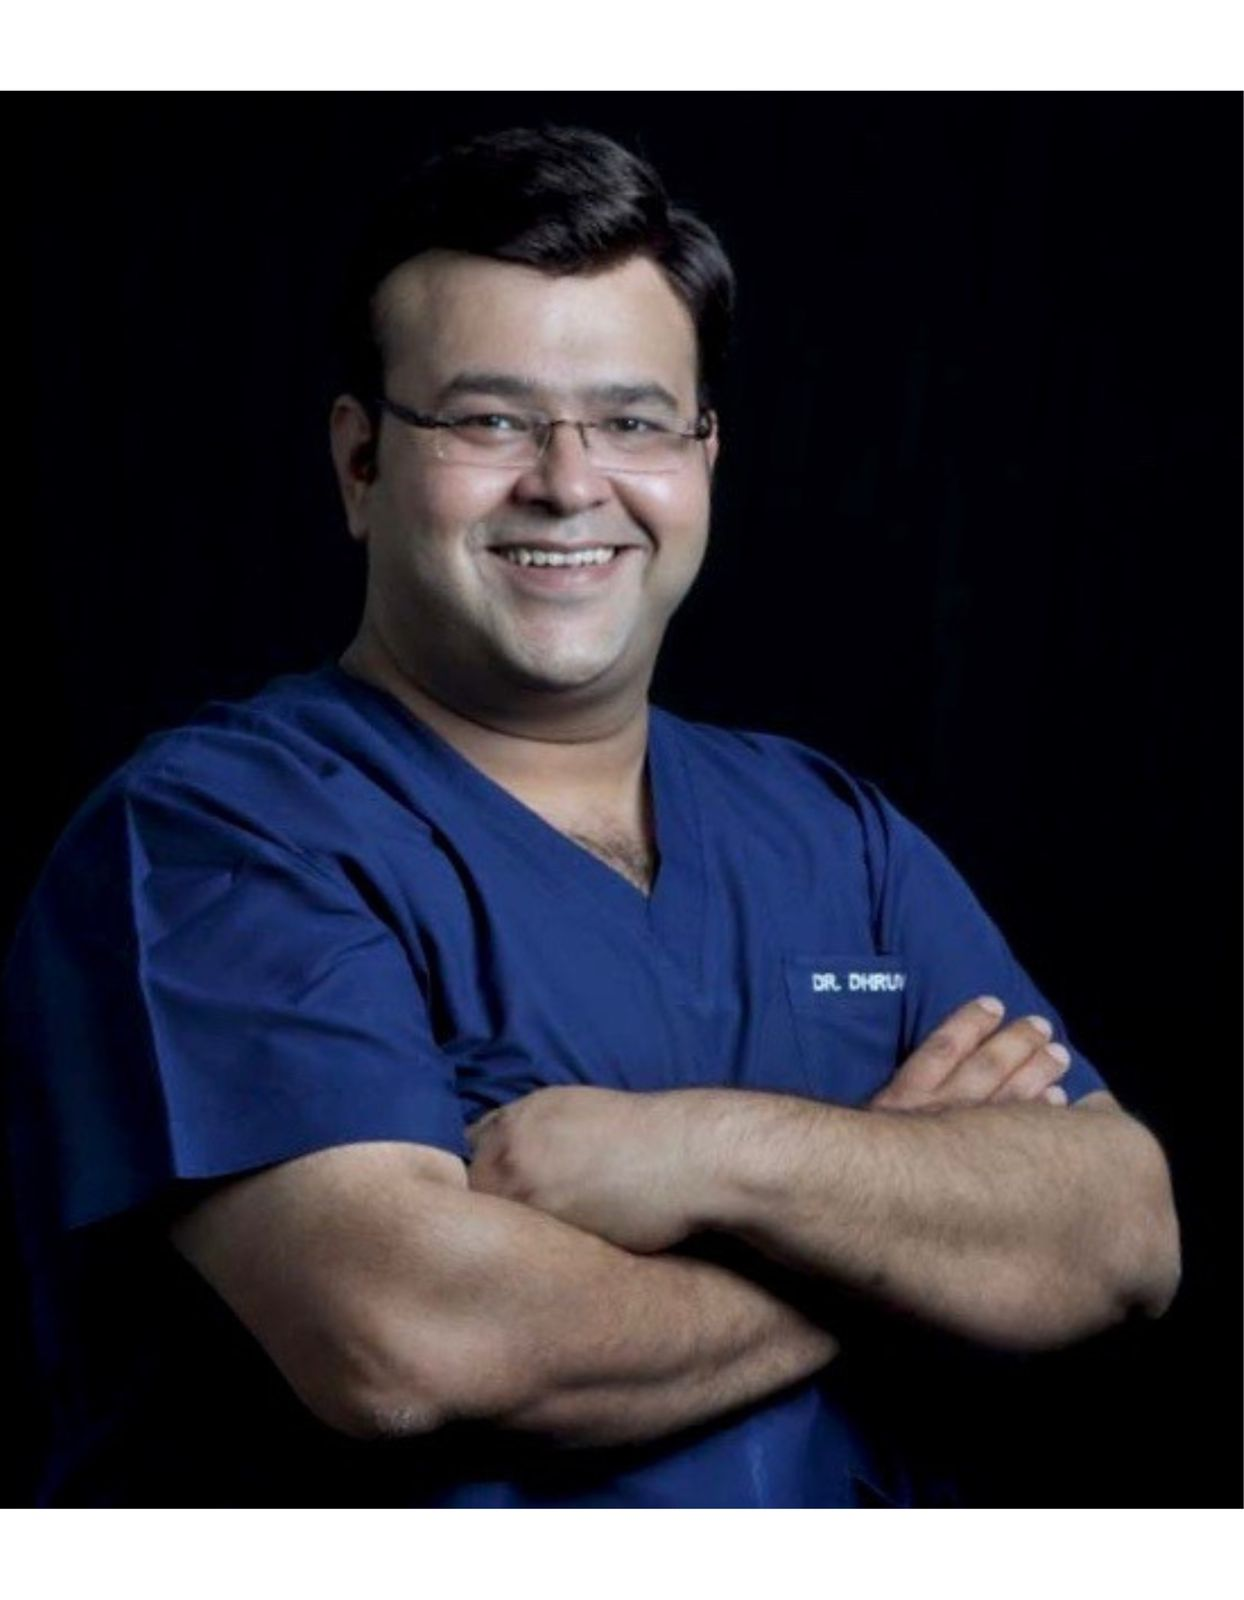
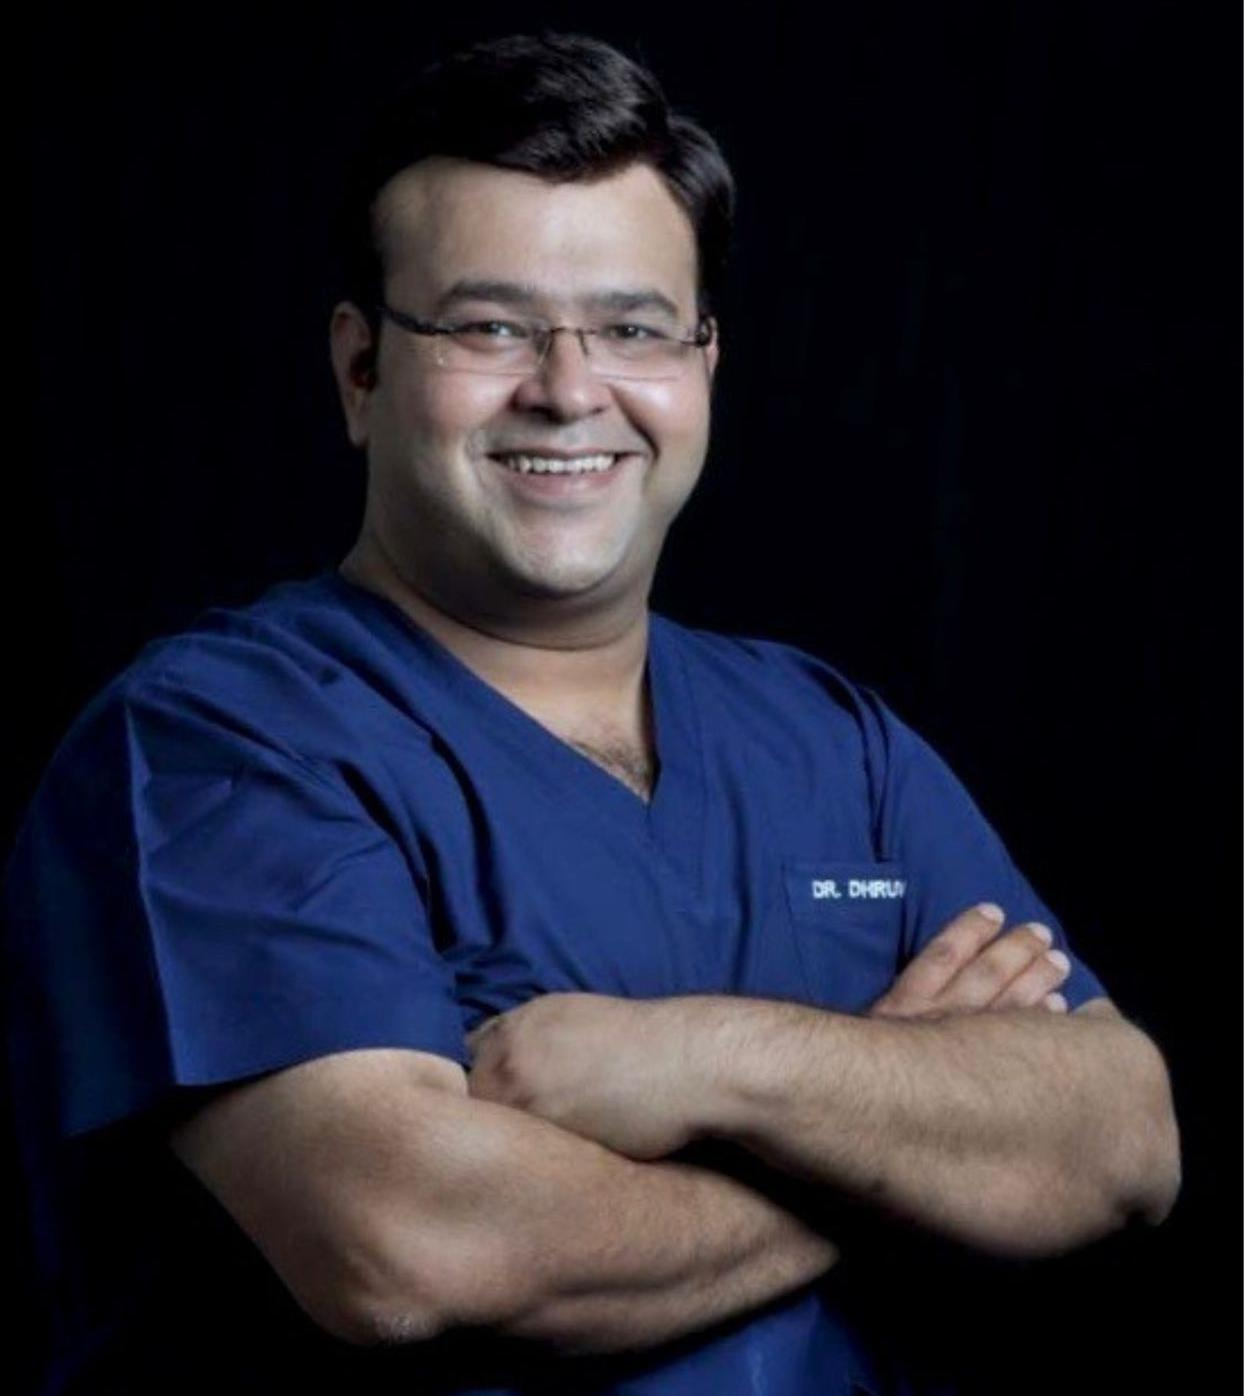
Added new feature

diff --git a/src/components/icore/Sections.tsx b/src/components/icore/Sections.tsx
@@ -185,7 +185,7 @@ export function Principles() {
 /* ---------------- ROI / WHAT YOU GET ---------------- */
 export function WhatYouGet() {
   const items = [
-    { t: "NDC  Certificate", d: "recognized continuing education credits." },
+    { t: "CDE  Certificate", d: "recognized continuing education credits." },
     { t: "Digital Asset Pack", d: "Surgical videos, CBCT scans, prosthetic libraries — yours forever." },
     { t: "Clinical Hands-on Log", d: "Place 5–20 implants under direct mentor supervision." },
     { t: "Indexed Publication", d: "Co-author opportunity on peer-reviewed indexed journals." },
@@ -393,7 +393,7 @@ export function Faculty() {
     {
       title: "Key Note Speakers",
       members: [
-        { n: "Dr. Rajesh Bansal", r: "SENIOR PROF. PROSTHODONTICS , BHU", y: "Senior Implantologist  & Professor, Prosthodontics, Faculty of Dental Sciences, IMS, BHU", image: img("Rajesh Bansal.jpeg") },
+        { n: "Dr. Rajesh Bansal", r: "SENIOR PROF. PROSTHODONTICS , BHU", y: "Senior Implantologist  & Professor, Prosthodontics, Faculty of Dental Sciences, IMS, BHU", image: img("Dr. Rajesh Bansal.jpeg") },
         { n: "Dr. Rajesh Sharma", r: "HOD PEDODONTIST , JDC", y: "Mentor for both Two Piece & Single Piece Implantology, 35 + Publications , Done 1000 + Full Rehabilitation.", image: img("rajesh-sharma.jpeg") },
         { n: "Dr. Johnson Raja James", r: "BDS · MDS · MS(ITALY) · PhD · DIPLOMATEICOI", y: "Implant surgeon & international mentor with 23 years experience in FMR, Pterygoid, & Zygomatic implantology Peri-implant regeneration expert", image: img("Dr. Johnson Raja James.jpeg") },
         { n: "Dr. Dhruv Arora", r: "BDS , MDS Prosthodontics GDC Pondicherry", y: "Internationally acclaimed Prosthodontist & Implant Surgeon with expertise in advanced implantology, full mouth rehabilitation, and peri-implant regeneration. Trained 2500+ dentists globally in implant dentistry.", image: img("Dr. Dhruv Arora.jpeg") },
@@ -425,7 +425,7 @@ export function Faculty() {
         { n: "Dr. Ashish Shrivastava", y: "Senior Dental Surgeon · 35 yrs of clinical experience", image: img("Dr. Ashish Shrivastava.jpeg") },
         { n: "Dr. Manju Shrivastava", y: "Senior Implantologist · 30 years of clinical experience", image: img("Manju Shrivastava.jpeg") },
         { n: "Dr. Sapt Rishi Patel", y: "Oral & Maxillofacial Surgeon · IDA President Alwar", image: img("sapt-rishi-patel.jpeg") },
-        { n: "Dr. Abhaydeep Singh", y: "Bi Cortical Implantologist · 15+ Years", image: img("abhaydeep-singh.jpeg") },
+        { n: "Dr. Abhaydeep Singh", y: "Bi Cortical Implantologist · 10+ Years", image: img("abhaydeep-singh.jpeg") },
         { n: "Dr. Reha Patel", y: "Senior Aesthetic Expert · Chief Co-Ordinator I.C.O.R.E 2026", image: img("reha-patel.jpeg") },
         { n: "Dr. Vishwas Sharma", y: "Bi Cortical Surgeon · Implantologist · Perioperative Care Specialist", image: img("vishwas-sharma.jpeg") },
       ],
@@ -572,8 +572,9 @@ export function Venue() {
   const f = [
     { t: "Auditorium", d: "500+ capacity · Tiered seating · 4K projection", n: "01", img: "/images/Venue/Auditorium.jpeg" },
     { t: "Mega OT", d: "6 surgical chairs · Live broadcast · Sterile zones", n: "02", img: "/images/Venue/Mega OT.jpeg" },
-    { t: "War Room", d: "Case planning · CBCT review · Mentor pods", n: "03", img: "/images/Venue/War room.jpeg" },
-    { t: "Food Court and Trade Fair", d: "Royal Rajasthani cuisine · Networking lounges  • Live product demos ", n: "04", img: "/images/Venue/Trade Fair.jpeg" },
+    { t: "Conference Round Table", d: "100 Seated Capacity · Round Table · Panel Discussion", n: "03", img: "images/Venue/Conference round table .jpeg" },
+    { t: "War Room", d: "Case planning · CBCT review · Mentor pods", n: "04", img: "/images/Venue/War room.jpeg" },
+    { t: "Food Court and Trade Fair", d: "Royal Rajasthani cuisine · Networking lounges  • Live product demos ", n: "05", img: "/images/Venue/Trade Fair.jpeg" },
     
   ];
   return (
@@ -636,7 +637,7 @@ export function Pricing({
       p: "₹29,999",
       price: 29999,
       tagline: "Engaged Learner",
-      features: ["5 hands-on implant placementson live patients", "Lectures by Top 5 Mentors (all 7 days)", "Full 7-day event entry", "Lunches Inc."],
+      features: ["5 hands-on CorticoBasal implant placementson live patients", "Lectures by Top 5 Mentors (all 7 days)", "Full 7-day event entry", "Lunches Inc."],
     },
     {
       id: "specialist",
@@ -747,7 +748,18 @@ export function AddOns({
     { id: "research", t: "Research Package", p: "+ ₹99,999", price: 99999, d: "Manuscript mentorship + indexed publication co-authorship." },
   ];
   return (
-    <SectionShell id="addons" label="Optional" title="Add-On Workshops" dark>
+    <SectionShell
+      id="addons"
+      label={
+        <>
+           Optional
+           <br />
+           Phase 1
+        </>
+     }
+     title="Add-On Workshops"
+     dark
+   >
       <div className="grid sm:grid-cols-2 lg:grid-cols-4 gap-6">
         {items.map((it, i) => (
           <motion.div
@@ -759,7 +771,15 @@ export function AddOns({
             className="p-7 border border-[var(--gold)]/20 hover:border-[var(--gold)]/60 bg-[var(--burgundy)]/30 transition-all"
           >
             <h3 className="font-display text-lg text-[var(--ivory)]">{it.t}</h3>
-            <div className="mt-3 font-display text-2xl gradient-gold-text">{it.p}</div>
+            <div className="mt-3">
+              <div className="font-display text-2xl gradient-gold-text">
+                {it.p}
+              </div>
+
+              <div className="mt-1 text-xs font-semibold uppercase tracking-[0.2em] text-[var(--gold)]">
+                Early Bird
+              </div>
+            </div>
             <p className="mt-3 text-sm text-[var(--ivory)]/65">{it.d}</p>
             {(() => {
               const currentQty = cartItems.find((item) => item.id === it.id)?.quantity ?? 0;

diff --git a/src/components/icore/Hero.tsx b/src/components/icore/Hero.tsx
@@ -147,7 +147,7 @@ export function Hero() {
         </motion.a>
 
         <p className="mt-6 text-[12px] font-bold uppercase tracking-[0.4em] text-[var(--ivory)]/50">
-          CPD/CME Certificate · Indexed Research Pathway · World-Record Attempt
+          CDE  Certificate · Indexed Research Pathway · World-Record Attempt
         </p>
       </motion.div>
 

diff --git a/src/components/icore/Masterclasses.tsx b/src/components/icore/Masterclasses.tsx
@@ -363,7 +363,7 @@ function DetailPanel({ data }: { data: MasterclassData }) {
 }
 
 export function MasterclassesSection() {
-  const [active, setActive] = useState<number | null>(0);
+  const [active, setActive] = useState<number | null>(null);
 
   return (
     <div className="relative mx-auto max-w-5xl">